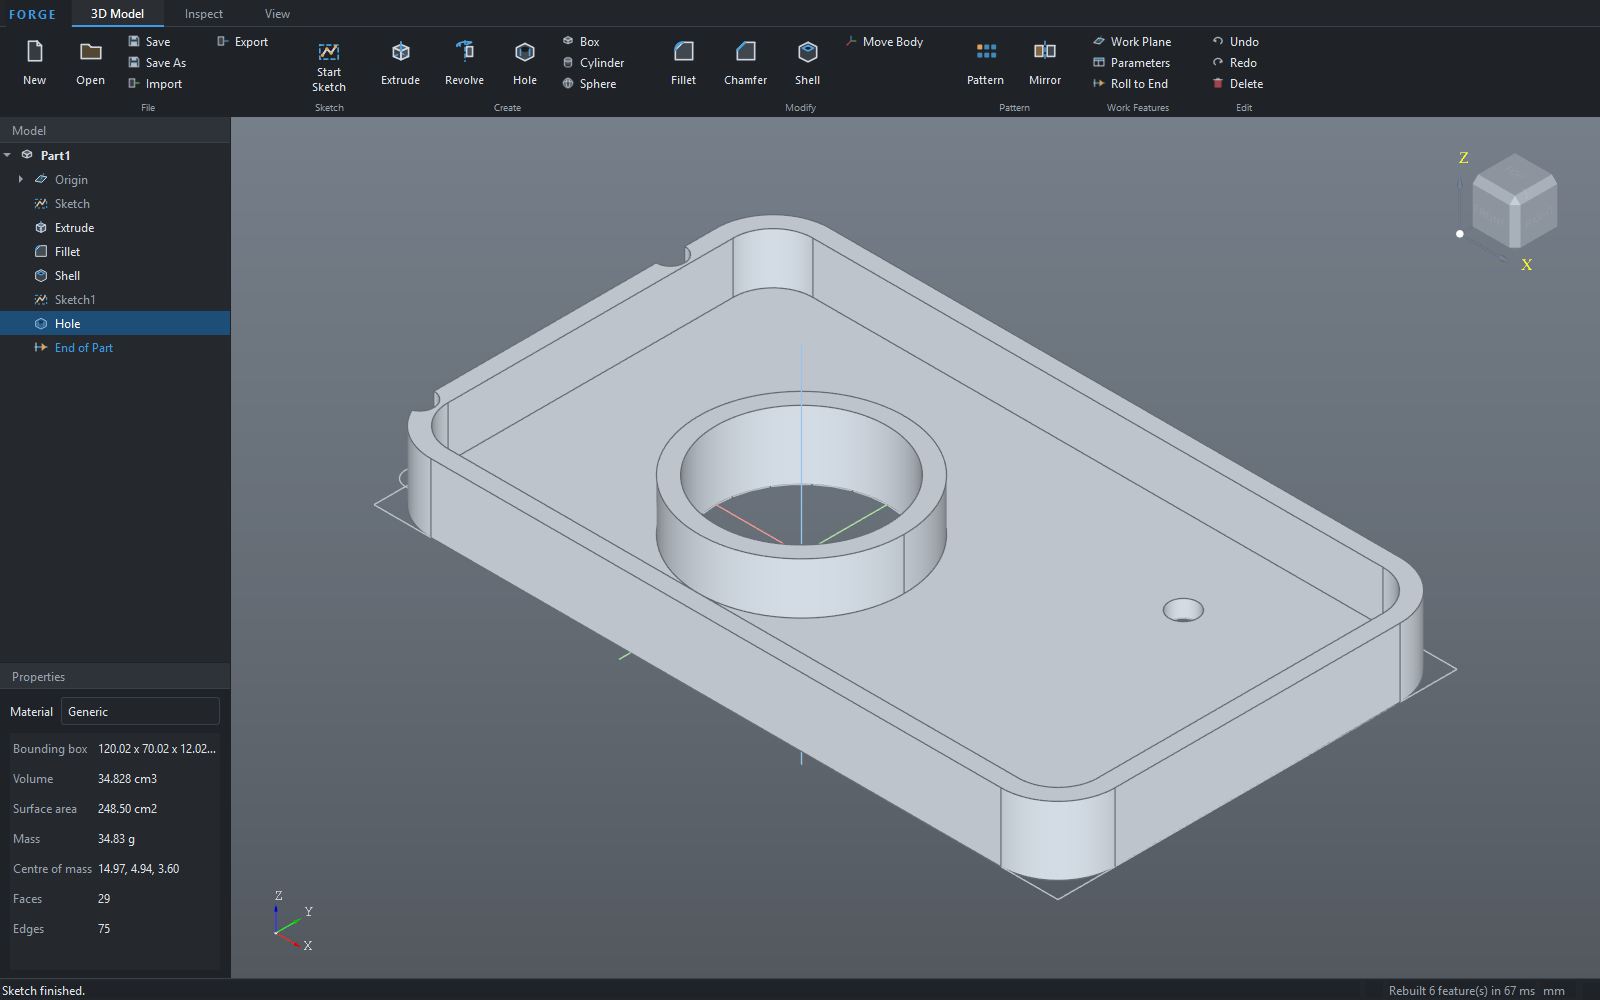
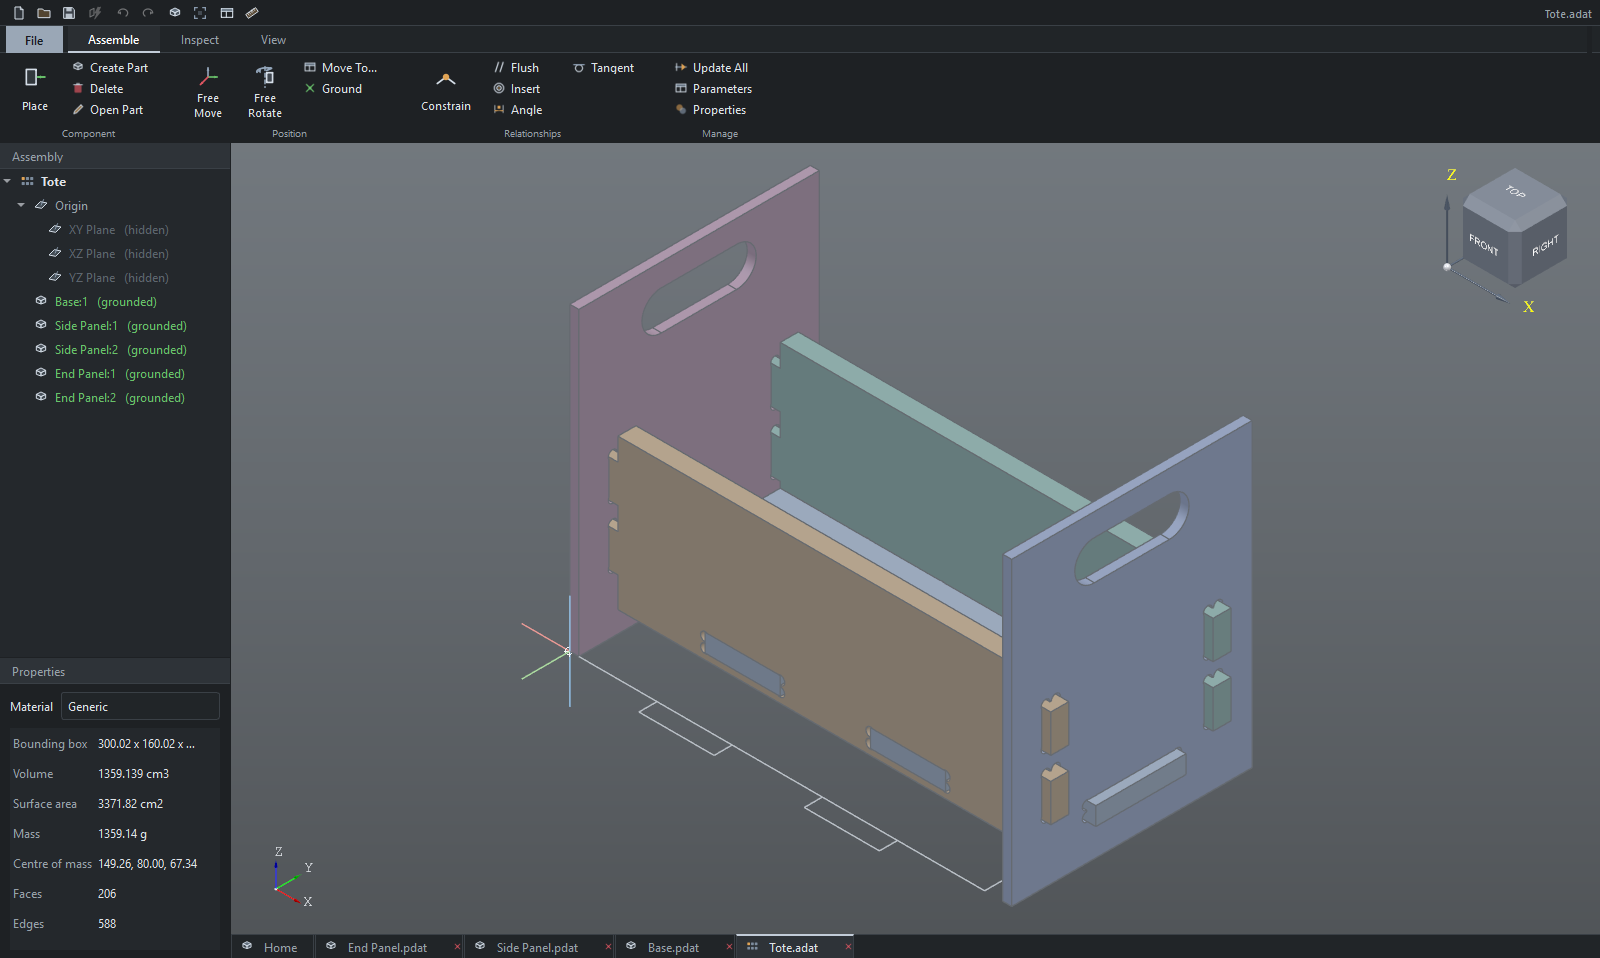
Current screenshots and a landing header on the README
The repository page is the first thing anybody sees, and it was opening
with a screenshot taken before the silver retheme, so it showed an
application that no longer looks like that.

diff --git a/README.md b/README.md
@@ -1,11 +1,17 @@
 # DATUM
 
 A parametric, history-based solid modeller with an Inventor-style interface,
-built on the OpenCASCADE kernel.
+built on the OpenCASCADE kernel. Sketch with a constraint solver, model
+solids on a feature tree you can go back into, assemble, draw, and cut.
+
+[**Download for Windows**](https://datum.iiteg.com) &nbsp;·&nbsp;
+[datum.iiteg.com](https://datum.iiteg.com) &nbsp;·&nbsp;
+[Changelog](https://datum.iiteg.com/changelog.html) &nbsp;·&nbsp;
+MIT licensed
 
 ![DATUM](docs/screenshot.png)
 
-## Running it
+## Running it from source
 
 ```bash
 datum.bat
